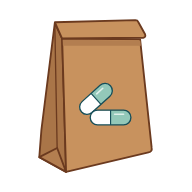
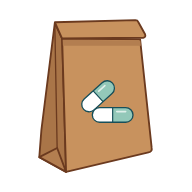
Make the w from real pill shapes
Claude-Session: https://claude.ai/code/session_01U63ikha6X1SnPwVRLGhNyE

Changed region(s): [[0.4062, 0.4062, 0.7188, 0.6562]]

diff --git a/tools/logo/logo.html b/tools/logo/logo.html
@@ -20,17 +20,15 @@
   svg.art { position: absolute; inset: 0; }
   .name {
     /* The name sits in front of the bag, centered, with no outline. */
-    position: absolute; left: 0; right: 0; top: 404px;
+    position: absolute; left: 0; right: 0; top: 376px;
     text-align: center;
     font-family: "Fredoka", sans-serif; font-weight: 700;
     font-size: 200px; line-height: 0.8; color: #164F5A;
   }
   .line { white-space: nowrap; }
-  /* The real "w" keeps its own spacing but is drawn invisible; four pills
-     are laid over its four strokes. The empty marker after it sits on the
-     baseline, so the pills can be placed exactly. */
-  #w { color: transparent; }
-  #baseline { display: inline-block; width: 0; height: 0; }
+  /* An empty gap where the "w" goes. Its width is set from the pill size,
+     and it sits on the baseline, so the pills can be placed exactly. */
+  #wslot { display: inline-block; width: 0; height: 0; }
 </style>
 </head>
 <body>
@@ -51,7 +49,7 @@
     <g id="pills"></g>
   </svg>
   <div class="name" id="name">
-    <div class="line">Bro<span id="w">w</span><span id="baseline"></span>n</div>
+    <div class="line">Bro<span id="wslot"></span>n</div>
     <div class="line">Bag</div>
   </div>
 </div>
@@ -89,32 +87,44 @@
     el("rect", { x: 0, y: -r, width: length, height: width, rx: r, fill: "none", stroke: "#164F5A", "stroke-width": width * 0.09 }, g);
   }
 
+  // A pill given by the centers of its two rounded ends.
+  function pillBetween(parent, cx1, cy1, cx2, cy2, width) {
+    var d = Math.hypot(cx2 - cx1, cy2 - cy1), r = width / 2;
+    var ux = (cx2 - cx1) / d, uy = (cy2 - cy1) / d;
+    capsule(parent, cx1 - ux * r, cy1 - uy * r, cx2 + ux * r, cy2 + uy * r, width);
+  }
+
+  // The same shape as the app icon's pills: 2.7 times as long as wide.
+  var PILL_RATIO = 2.7;
+
   if (mode === "logo") {
     document.fonts.ready.then(function () {
       var name = document.getElementById("name");
       var size = parseFloat(getComputedStyle(name).fontSize);
       var ctx = document.createElement("canvas").getContext("2d");
       ctx.font = "700 " + size + "px Fredoka";
-      var w = ctx.measureText("w");
+      // The pills fill the height of the small letters, like a real w.
+      var h = ctx.measureText("w").actualBoundingBoxAscent;
+      var t = h / 2.6;
+      var r = t / 2;
+      var axis = t * PILL_RATIO - t;          // distance between end centers
+      var rise = h - t;                        // top end center to bottom end center
+      var dx = Math.sqrt(axis * axis - rise * rise);
+      var gap = t * 0.9;                       // where two pills meet, side by side
+      var inkWidth = 4 * dx + 3 * gap + t;
+      var side = size * 0.035;                 // a little space each side
+      var slot = document.getElementById("wslot");
+      slot.style.width = (inkWidth + 2 * side) + "px";
       var box = document.getElementById("canvas").getBoundingClientRect();
-      var span = document.getElementById("w").getBoundingClientRect();
-      var baseline = document.getElementById("baseline").getBoundingClientRect().bottom - box.top;
-      // The invisible w's ink: left and right edges, top and bottom.
-      var inkLeft = span.left - box.left - w.actualBoundingBoxLeft;
-      var inkRight = span.left - box.left + w.actualBoundingBoxRight;
-      var yTop = baseline - w.actualBoundingBoxAscent;
-      var yBottom = baseline + w.actualBoundingBoxDescent;
-      // Four pills of the same size on the four strokes of the w.
-      var t = size * 0.115;
-      var left = inkLeft + t * 0.5;
-      var right = inkRight - t * 0.5;
-      var step = (right - left) / 4;
-      var xs = [left, left + step, left + step * 2, left + step * 3, right];
+      var rect = slot.getBoundingClientRect();
+      var baseline = rect.bottom - box.top;
+      var top = baseline - h + r, bottom = baseline - r;
+      var x = rect.left - box.left + side + r;
       var pills = document.getElementById("pills");
-      capsule(pills, xs[0], yTop, xs[1], yBottom, t);
-      capsule(pills, xs[2], yTop, xs[1], yBottom, t);
-      capsule(pills, xs[2], yTop, xs[3], yBottom, t);
-      capsule(pills, xs[4], yTop, xs[3], yBottom, t);
+      pillBetween(pills, x, top, x + dx, bottom, t);
+      pillBetween(pills, x + 2 * dx + gap, top, x + dx + gap, bottom, t);
+      pillBetween(pills, x + 2 * dx + 2 * gap, top, x + 3 * dx + 2 * gap, bottom, t);
+      pillBetween(pills, x + 4 * dx + 3 * gap, top, x + 3 * dx + 3 * gap, bottom, t);
       document.body.dataset.ready = "yes";
     });
   } else {
@@ -128,7 +138,7 @@
     document.getElementById("bag").setAttribute("transform", fit);
     var pills = document.getElementById("pills");
     pills.setAttribute("transform", fit);
-    var cx = 510, cy = 567;
+    var cx = 518, cy = 557;
     capsule(pills, cx - 85, cy + 5, cx + 25, cy - 95, 56);
     capsule(pills, cx - 52, cy + 26, cx + 103, cy + 26, 56);
   }
